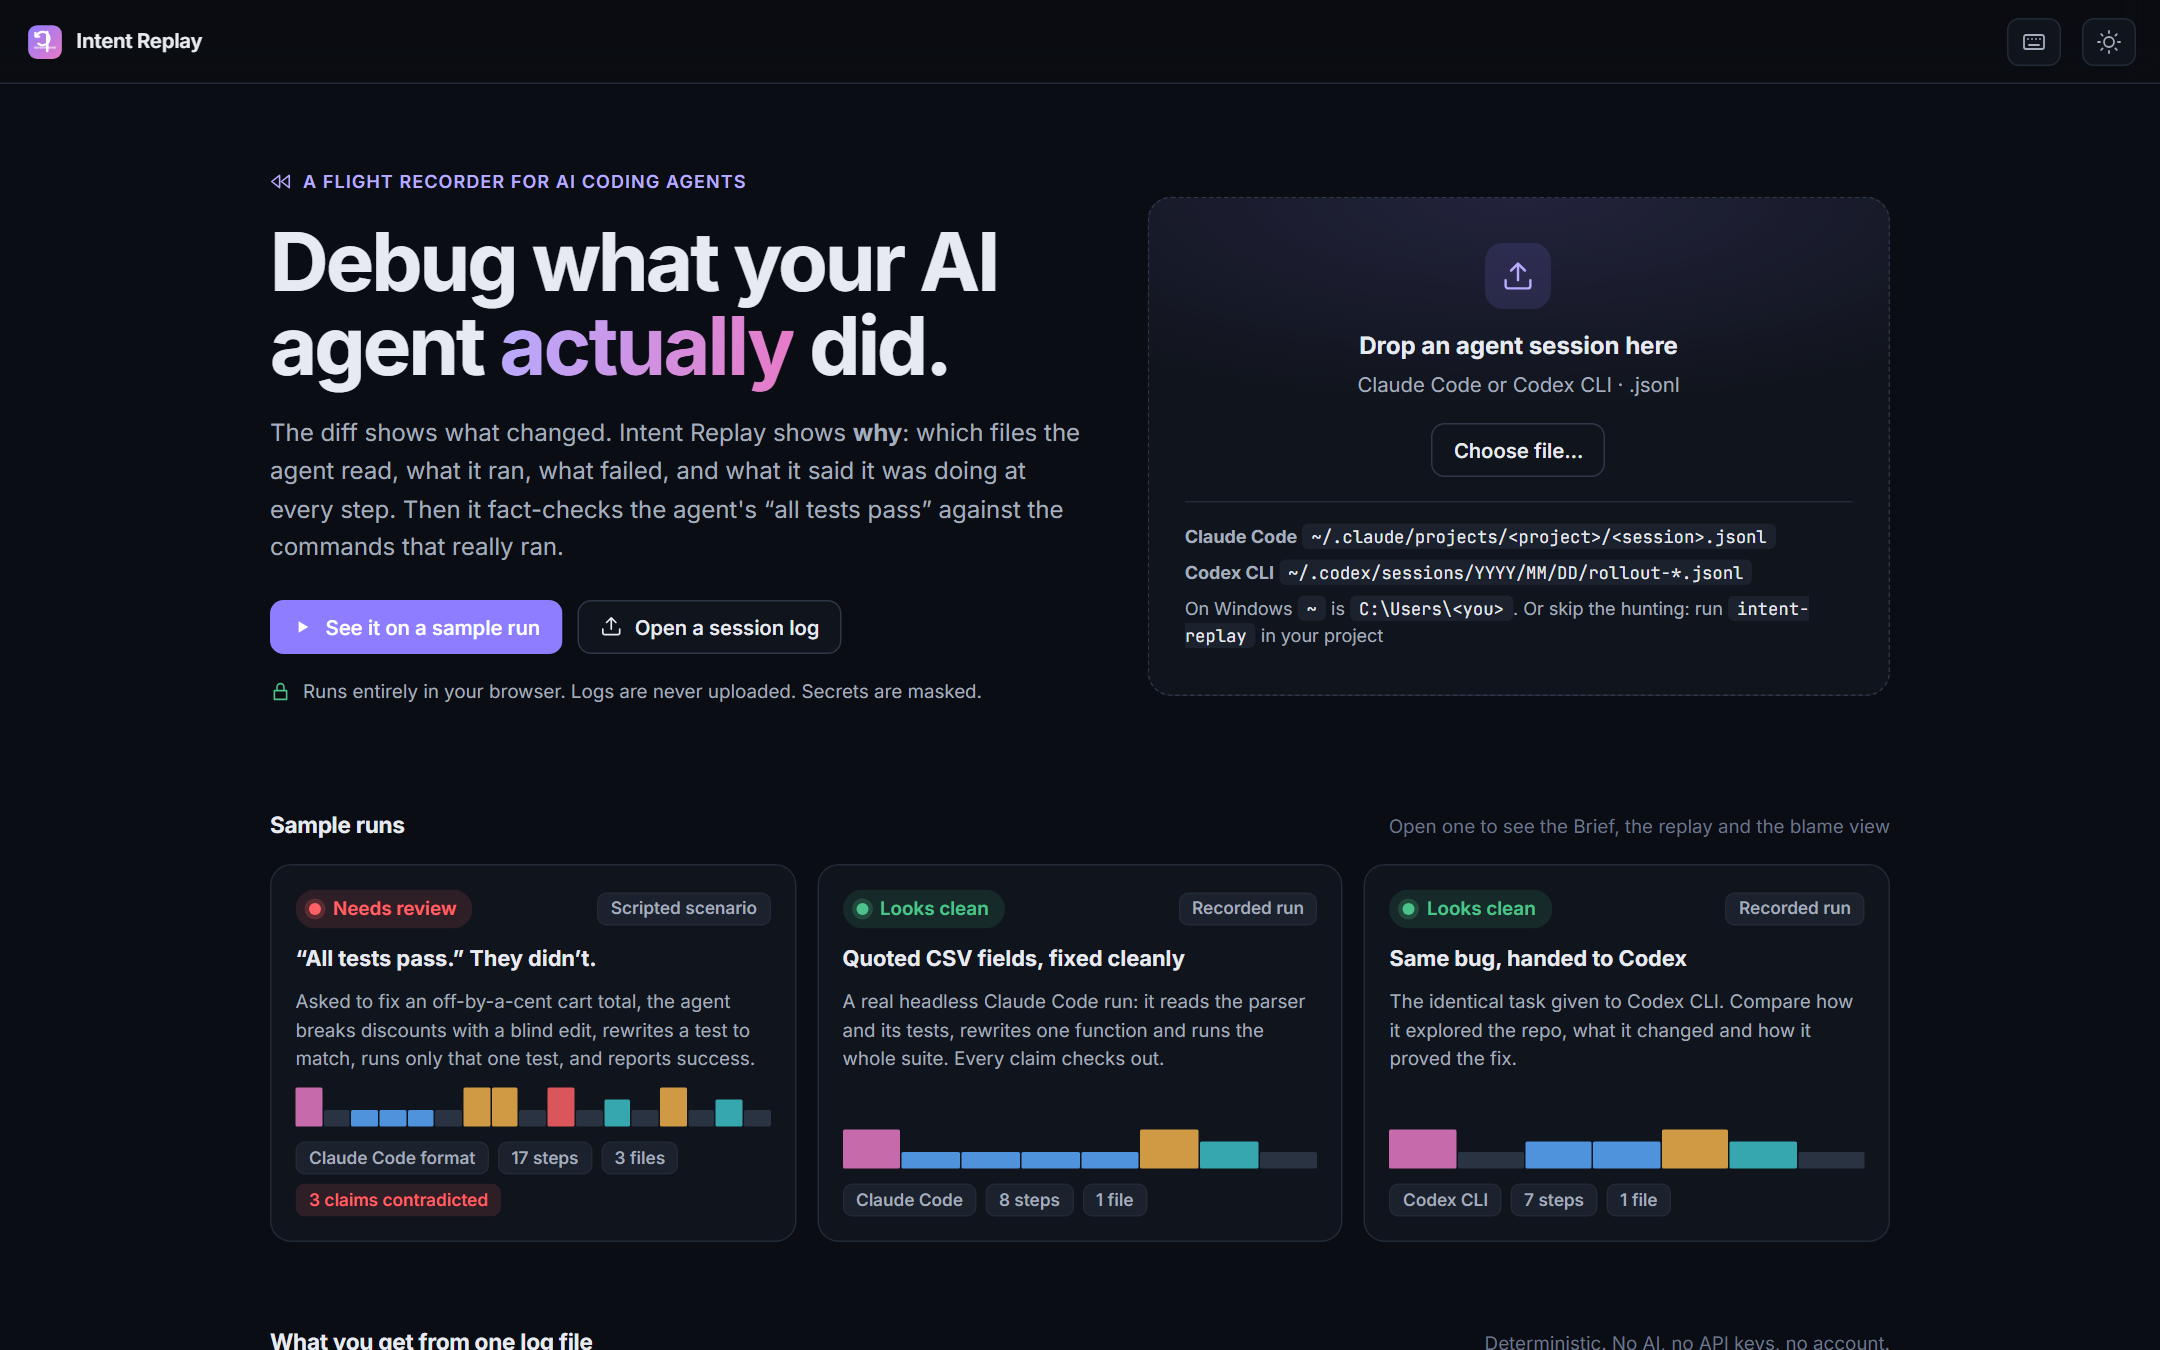
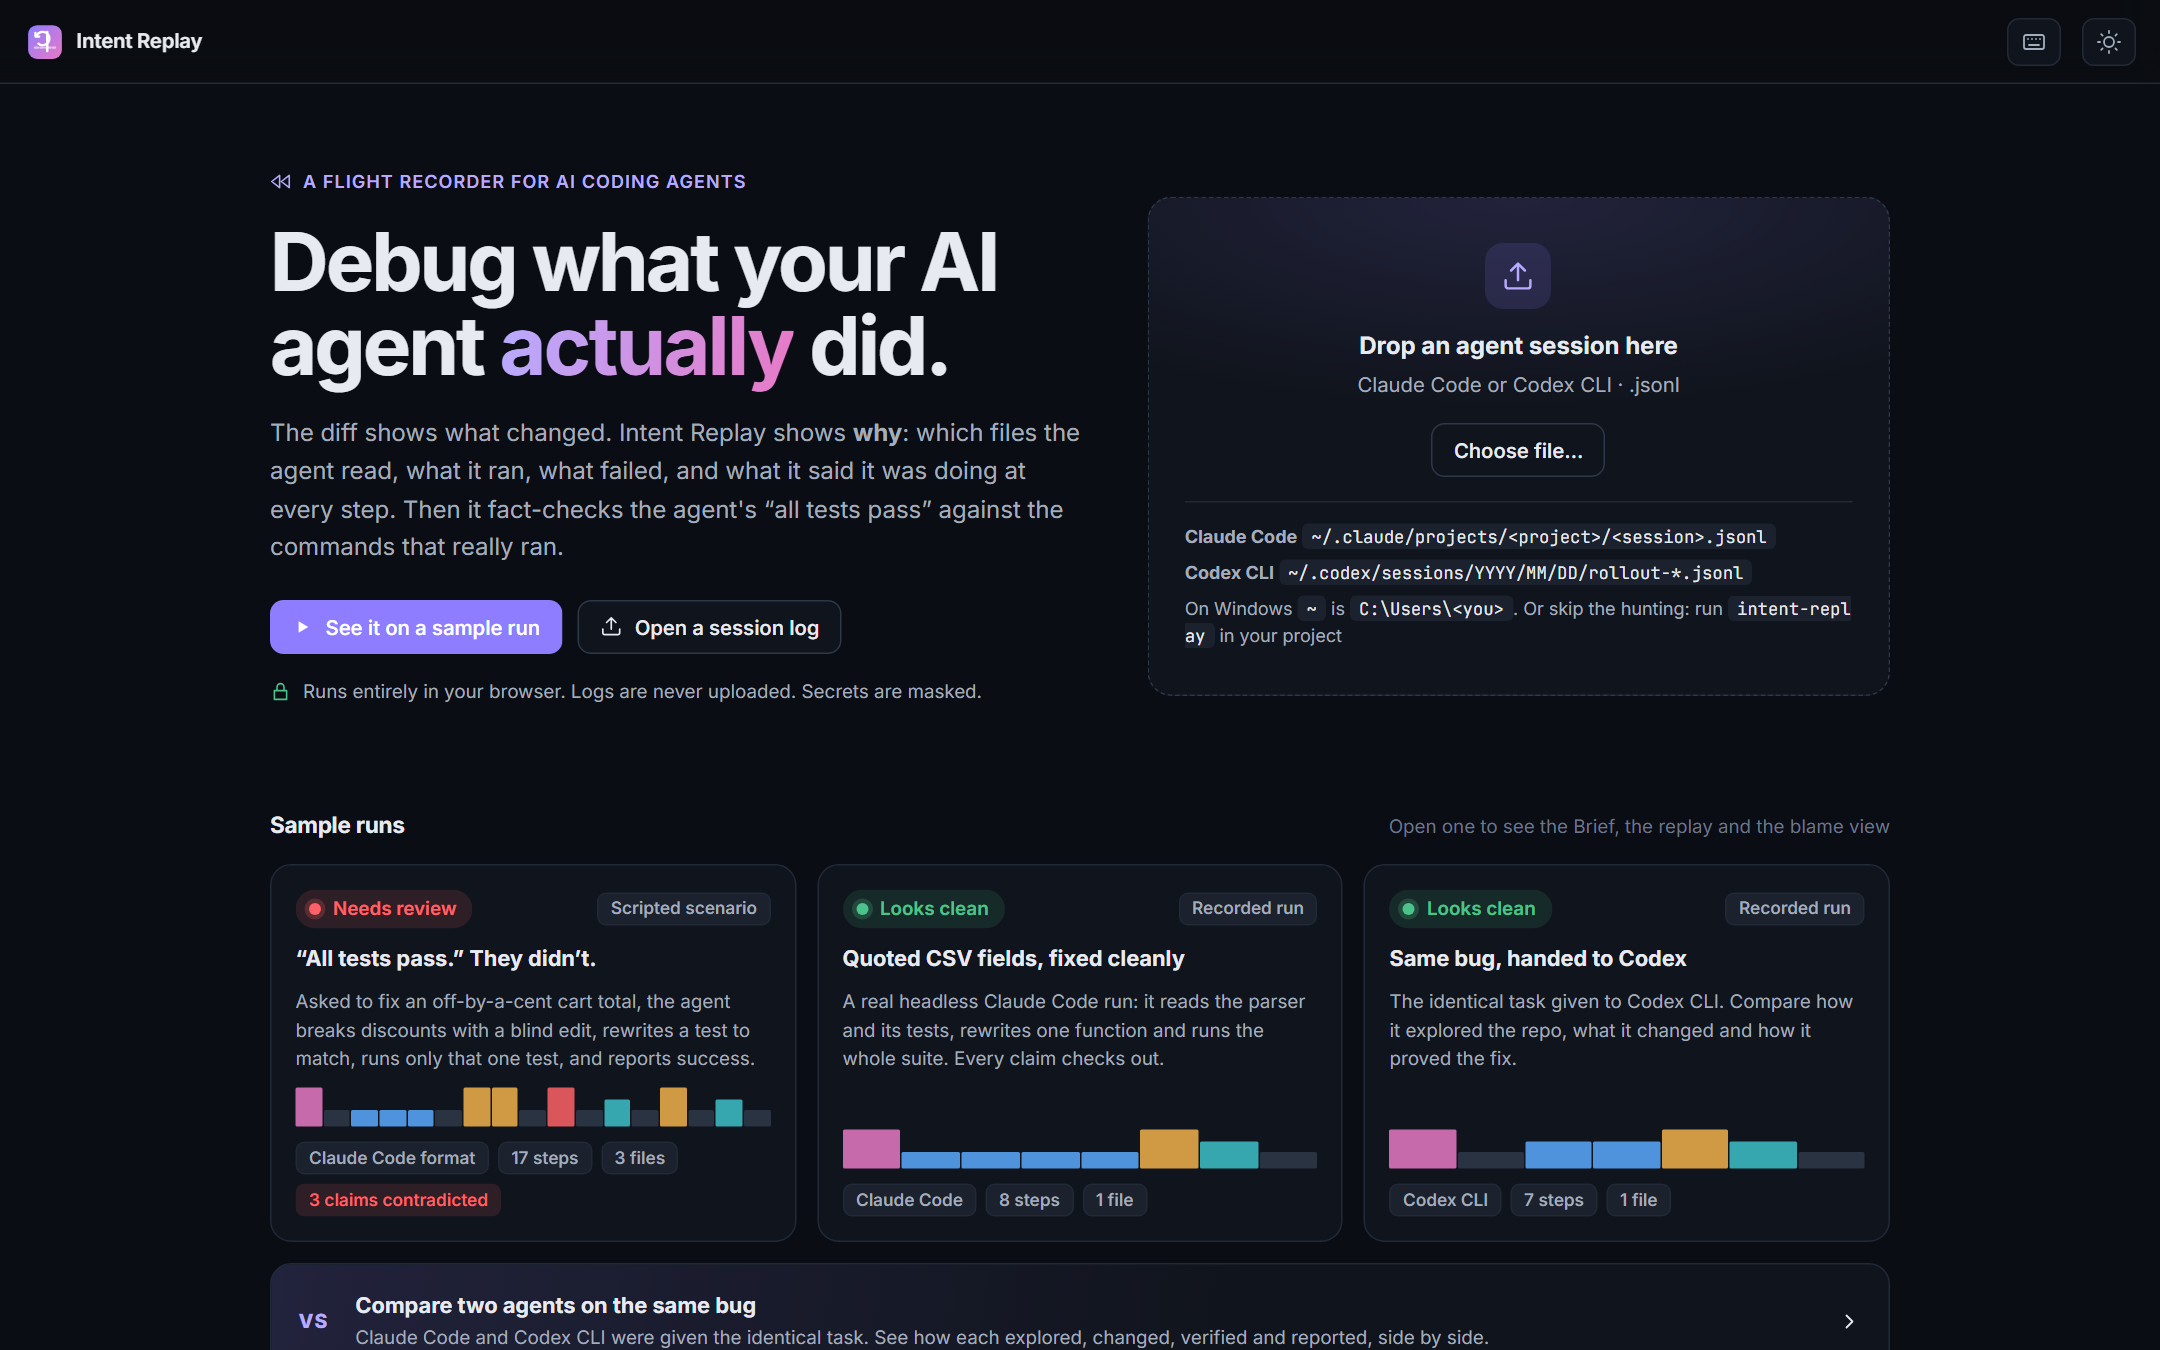
Phone layout fixes; README covers live mode and compare; compare screenshot

Changed region(s): [[0.1241, 0.9333, 0.6824, 1.0], [0.6824, 0.9956, 0.8995, 1.0], [0.5583, 0.4667, 0.6514, 0.4978]]

diff --git a/src/ui/styles.css b/src/ui/styles.css
@@ -2958,3 +2958,87 @@ kbd {
     grid-template-columns: 1fr;
   }
 }
+
+/* ------------------------------------------------------------------ phones */
+
+.where code {
+  word-break: break-all;
+}
+
+@media (max-width: 860px) {
+  .tab-label {
+    display: none;
+  }
+}
+
+@media (max-width: 600px) {
+  .brand span,
+  .hide-sm {
+    display: none;
+  }
+
+  .topbar {
+    gap: 6px;
+  }
+
+  .tabs {
+    flex: 1;
+    justify-content: space-between;
+  }
+
+  .tab {
+    padding: 5px 7px;
+  }
+
+  .tab .count {
+    display: none;
+  }
+
+  .home {
+    padding-top: 32px;
+  }
+
+  .page {
+    padding: 14px 12px 48px;
+  }
+
+  .brief-hero {
+    padding: 18px 16px;
+  }
+
+  .brief-hero h1 {
+    font-size: 23px;
+  }
+
+  .stat-grid {
+    grid-template-columns: repeat(3, minmax(0, 1fr));
+    gap: 8px 12px;
+  }
+
+  .panel-head .hint {
+    display: none;
+  }
+
+  .runhead {
+    padding: 8px 12px;
+    gap: 6px 12px;
+  }
+
+  .runhead .label-chip {
+    margin-left: 0;
+  }
+
+  .tape-controls .speed,
+  .tape-controls .icon-btn[aria-label='First step'],
+  .tape-controls .icon-btn[aria-label='Last step'] {
+    display: none;
+  }
+
+  .inspector {
+    padding: 14px 12px 32px;
+  }
+
+  .cmp-title {
+    font-size: 22px;
+  }
+}

diff --git a/src/ui/Header.tsx b/src/ui/Header.tsx
@@ -77,7 +77,7 @@ export function Header({ onHome, onHelp }: { onHome: () => void; onHelp: () => v
       )}
       {!run && <div style={{ flex: 1 }} />}
       {run && <ExportMenu />}
-      <button className="icon-btn" onClick={onHelp} title="Keyboard shortcuts (?)" aria-label="Keyboard shortcuts">
+      <button className="icon-btn hide-sm" onClick={onHelp} title="Keyboard shortcuts (?)" aria-label="Keyboard shortcuts">
         <Icon name="keyboard" />
       </button>
       <button

diff --git a/README.md b/README.md
@@ -14,11 +14,15 @@ When Claude Code or Codex finishes a task, you get a diff and a cheerful summary
 - **Blame, but for intent.** Click any changed line to see the step that wrote it, the reason the agent gave just before, whether it had even read that file, and what had just failed.
 - **Replays the run.** A timeline ("the tape") of every read, edit and command, with chapters (Explore, Change, Verify, Repair, Report). Scrub it, step through it with the keyboard, or press play and watch files light up in the file map.
 - **Flags what a reviewer should look at.** Deterministic rules, no AI: weakened tests, blind edits, failure loops, silenced errors, risky commands, leaked secrets, new dependencies, churn, sensitive files, unverified finishes, masked exit codes.
+- **Follows a run live.** `intent-replay watch` opens the session an agent is writing right now; the tape grows as it works and claims are checked the moment they're made.
+- **Compares agents.** Put two runs of the same task side by side: how much each explored before editing, what it changed, whether it verified the final change, and whether its claims held up.
 - **Fits your workflow.** A CLI that finds your local sessions, prints a PR-ready Markdown report, fails CI on high-severity findings, and exports a single offline HTML replay you can send to a reviewer.
 
 | Replay | Blame with "why" |
 |---|---|
 | ![Replay](docs/screenshots/replay.png) | ![Changes](docs/screenshots/changes.png) |
+| **Findings** | **Compare two agents** |
+| ![Findings](docs/screenshots/findings.png) | ![Compare](docs/screenshots/compare.png) |
 
 ## Who it's for
 
@@ -44,6 +48,7 @@ npm i -g github:Dakshhhhh-ops/intent    # builds on install, needs Node 20+
 
 intent-replay                     # list sessions for this folder and open the picker
 intent-replay open latest         # replay the newest session
+intent-replay watch               # follow the newest session live while the agent works
 intent-replay report latest       # PR-ready Markdown (--out report.md, --json)
 intent-replay check latest        # exit 1 on high findings (--fail-on medium|low)
 intent-replay export latest -o replay.html   # one offline file, secrets masked
